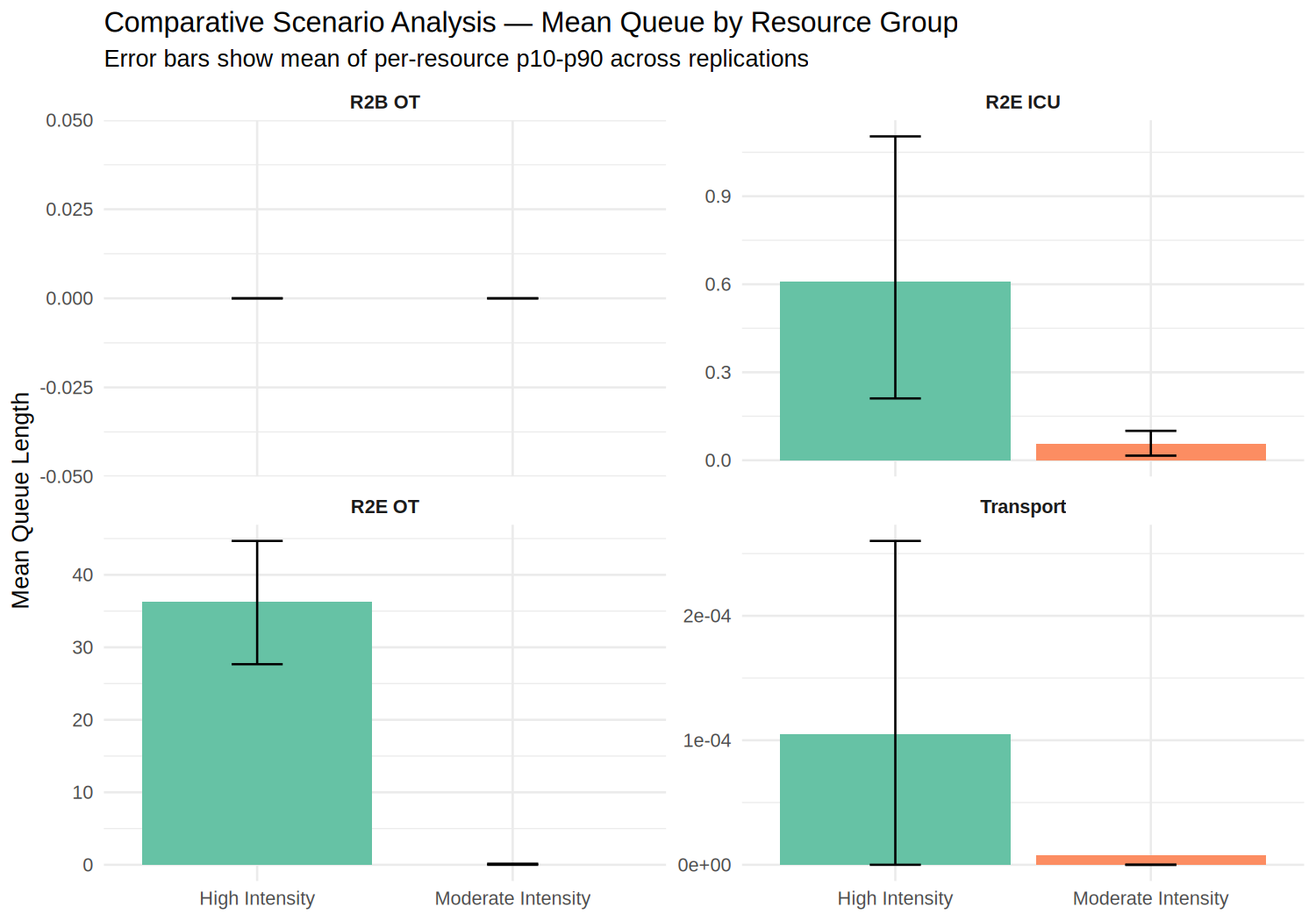
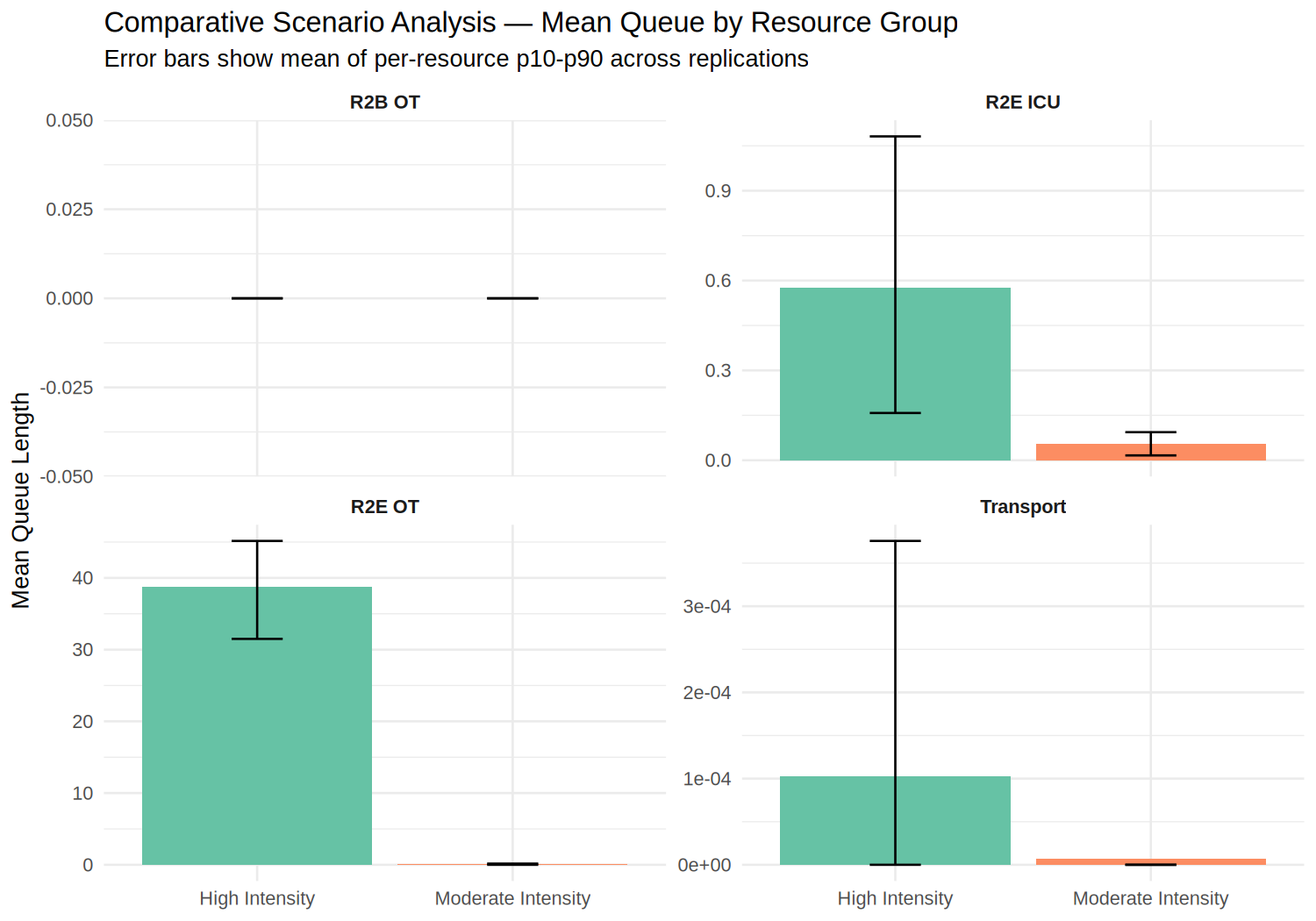
docs(issue-189): regenerate published intervals under independent replications
Every interval in these documents was computed over antithetically paired
replications while dividing by the replication count. The point estimates were
unbiased and stand; the widths assumed an independence the design did not
supply. All of them are re-measured here against independent replications,
which also means new seed draws, so the point estimates move a little by
sampling variation as well.

Pooled over 150 replications at three control seeds:
- base treated-cohort DOW 0.38% (95% CI [0.31%, 0.45%]), was 0.416%
- moderate_intensity treated-cohort DOW 0.29% (95% CI [0.23%, 0.35%])
- base mean DOW/run 0.85 (95% CI [0.69, 1.01]), was 0.95

Both configurations now sit below the 0.46% Ajax Bay bound rather than the base
spanning it. The bound is one-sided, so sitting below is agreement, and both
ceilings are left unchanged.

Replication count, which the issue asks be established: the per-replication
standard deviation of the treated-cohort rate is 0.0044, so a 95% half-width of
0.15 pp needs 33 replications, 0.10 pp needs 73 and 0.05 pp needs 292. At 150
replications the half-width is about 0.07 pp, which supports two decimal places
and no more, so the third decimal place these documents used is gone.

The conflicting moderate_intensity died-of-wounds figures are reconciled:
docs/Multi_Run_Analysis.md now points at the README's pooled 150-replication
figure as the one to quote, and reports its own single measurement as one draw
around it.
[…]

diff --git a/docs/Multi_Run_Analysis.md b/docs/Multi_Run_Analysis.md
@@ -42,7 +42,7 @@ Two scenarios are compared — `moderate_intensity` (Falklands 1982 exemplar) an
 Rscript scripts/run_scenarios.R --scenarios moderate_intensity,high_intensity --iterations 50 --days 30 --seed 42
 ```
 
-`moderate_intensity` total casualties (385.7, 95% CI [385.3, 386.1]) match the documented seed-42 single-run baseline (386, `CLAUDE.md` Key Parameters) within 0.1%, confirming that the comparative runner reproduces the single-run baseline under the Falklands profile it is scenario-explicit about, consistent with the scenario mechanism's no-op guarantee for `default`.
+`moderate_intensity` total casualties (385.7, 95% CI [385.3, 386.2]) match the documented seed-42 single-run baseline (386, `CLAUDE.md` Key Parameters) within 0.1%, confirming that the comparative runner reproduces the single-run baseline under the Falklands profile it is scenario-explicit about, consistent with the scenario mechanism's no-op guarantee for `default`.
 
 ---
 
@@ -54,35 +54,35 @@ Rscript scripts/run_scenarios.R --scenarios moderate_intensity,high_intensity --
 
 | Metric | `moderate_intensity` (Falklands) | `high_intensity` (Okinawa) | Ratio |
 |---|---|---|---|
-| Total casualties/run | 385.6 (p10–p90: 384.0–387.0) | 968.4 (p10–p90: 965.0–972.1) | 2.51× |
-| WIA/run | 149.0 (148.0–150.0) | 656.0 (653.0–659.0) | 4.40× |
-| DOW/run | 0.66 (0–2.0) | 6.12 (2.0–10.0) | 9.27× |
-| DOW/WIA rate | 0.444% (95% CI [0.286%, 0.601%]) | 0.933% (95% CI [0.811%, 1.055%]) | 2.10× |
+| Total casualties/run | 385.7 (p10–p90: 384.0–388.0) | 969.4 (p10–p90: 967.0–972.0) | 2.51× |
+| WIA/run | 148.8 (148.0–150.0) | 656.7 (655.0–659.0) | 4.41× |
+| DOW/run | 0.72 (0–2.0) | 5.04 (3.0–7.0) | 7.00× |
+| DOW/WIA rate | 0.48% (95% CI [0.30%, 0.67%]) | 0.77% (95% CI [0.68%, 0.85%]) | 1.59× |
 
-The two died-of-wounds rows carry a wider uncertainty than the intervals shown. Both are single 50-replication measurements of a response averaging well under one death per replication at Falklands load, and the interval is computed as though the replications were independent when they are antithetically paired, which narrows it (see the README's [Parameter Calibration](../README.md#parameter-calibration) and Further Development entry L22). Repeating the `moderate_intensity` measurement at other control seeds returns DOW/WIA rates from 0.309% to 0.471%, so the ratio between the two profiles should be read as approximate. The `moderate_intensity` treated-cohort mortality rate pooled over 150 replications, which is the quantity the historical comparator constrains, is reported in the README's [Scenario Profiles](../README.md#scenario-profiles). The queue rows below are not affected in the same way: they are time-weighted occupancy measures with far more events behind each replication.
+The two died-of-wounds rows are each a single 50-replication measurement of a response averaging well under one death per replication at Falklands load, and 50 replications resolve a died-of-wounds rate only to roughly ±0.12 percentage points (see the README's [Further Development](../README.md#further-development) entry L22 for where that figure comes from). The intervals shown are correctly specified, the replications behind them being independent of one another (see the README's [Multi-run Replication Framework](../README.md#multi-run-replication-framework)); they are simply wide, and the `moderate_intensity` figure moves between control seeds by about as much as the interval spans. The figure to quote for that profile is therefore the 150-replication pooled one in the README's [Scenario Profiles](../README.md#scenario-profiles), 0.43% (95% CI [0.34%, 0.51%]), which this table's single measurement is one draw around, and the ratio between the two profiles should be read as approximate for the same reason. The queue rows below are better resolved at the same replication count: they are time-weighted occupancy measures with far more events behind each replication.
 
 ### Resource Queue Comparison (mean of per-resource mean queue, by group)
 
 | Resource group | `moderate_intensity` mean queue | `high_intensity` mean queue | Ratio |
 |---|---|---|---|
 | R2B OT | 0.000 | 0.000 | — |
-| R2B Hold | 0.284 | 3.302 | 11.64× |
-| R2E OT | 0.048 | 36.31 | 758.8× |
-| R2E ICU | 0.057 | 0.609 | 10.59× |
-| R2E Hold | 0.099 | 2.476 | 24.96× |
-| Transport (PMV Ambulance / HX240M) | 0.0000065 | 0.000105 | 16.0× (negligible in both) |
+| R2B Hold | 0.320 | 3.105 | 9.70× |
+| R2E OT | 0.052 | 38.81 | 749.4× |
+| R2E ICU | 0.055 | 0.577 | 10.53× |
+| R2E Hold | 0.172 | 2.429 | 14.15× |
+| Transport (PMV Ambulance / HX240M) | 0.0000071 | 0.000103 | 14.5× (negligible in both) |
 
 ![Comparative Scenario Analysis](../images/scenario_comparison.png)
 
 ### Interpretation
 
-The comparison exposes a structural fragility that the single-run baseline could not surface on its own, and it locates that fragility in the operating theatres. Mean R2E OT queue rises from 0.048 casualties at Falklands-equivalent load to 36.3 under `high_intensity`, a factor of roughly 760, which is by a wide margin the largest movement anywhere in the model. Both ends of that ratio fall once roughly half of operated casualties take a single-stage procedure rather than two staged ones, but the Falklands-load figure falls much the further, which is why the ratio widens rather than narrowing. The mechanism is the surgical roster: a casualty seizes a theatre before it seizes one of the three surgical sections that staff them, so a room reads as queued while its occupant waits for staff, and at Okinawa-intensity arrival rates that wait dominates. R2E ICU rises from 0.057 to 0.61, a factor of 11, and is now the flattest of the three R2E groups under surge: with only the damage control cohort taking a stabilisation episode, intensive care carries one episode for half the surgical population and two for the other half rather than two for everyone. R2E holding beds rise from 0.099 to 2.48, a factor of 25, and absorb what intensive care does not, since the holding bed is where a casualty goes when no intensive care bed is free and where those awaiting strategic evacuation stage.
+The comparison exposes a structural fragility that the single-run baseline could not surface on its own, and it locates that fragility in the operating theatres. Mean R2E OT queue rises from 0.052 casualties at Falklands-equivalent load to 38.8 under `high_intensity`, a factor of roughly 750, which is by a wide margin the largest movement anywhere in the model. Both ends of that ratio fall once roughly half of operated casualties take a single-stage procedure rather than two staged ones, but the Falklands-load figure falls much the further, which is why the ratio widens rather than narrowing. The mechanism is the surgical roster: a casualty seizes a theatre before it seizes one of the three surgical sections that staff them, so a room reads as queued while its occupant waits for staff, and at Okinawa-intensity arrival rates that wait dominates. R2E ICU rises from 0.055 to 0.58, a factor of 11, and is now the flattest of the three R2E groups under surge: with only the damage control cohort taking a stabilisation episode, intensive care carries one episode for half the surgical population and two for the other half rather than two for everyone. R2E holding beds rise from 0.17 to 2.43, a factor of 14, and absorb what intensive care does not, since the holding bed is where a casualty goes when no intensive care bed is free and where those awaiting strategic evacuation stage.
 
-R2B OT queue remains at 0 in both scenarios — not because R2B absorbs any of the surge, but because the existing OT-bypass routing diverts casualties requiring surgery to R2E whenever R2B is off-shift, busy, or queued rather than allowing them to wait; under `high_intensity`, this shunts the entire surge onto an R2E that has limited further capacity to absorb it. R2B Hold bed queue — already identified as a Falklands-rate bottleneck (see the single-run analysis's [R2B Hold Bed Saturation](Single_Run_Analysis.md#r2b-hold-bed-saturation-stream-decomposition-and-intervention-analysis) finding) — increases roughly 11.6-fold (0.28 to 3.30), driven by the proportional increase in non-surgical WIA volume rather than any change to DNBI generation, since DNBI generation rate is not one of the parameters a scenario profile overrides.
+R2B OT queue remains at 0 in both scenarios — not because R2B absorbs any of the surge, but because the existing OT-bypass routing diverts casualties requiring surgery to R2E whenever R2B is off-shift, busy, or queued rather than allowing them to wait; under `high_intensity`, this shunts the entire surge onto an R2E that has limited further capacity to absorb it. R2B Hold bed queue — already identified as a Falklands-rate bottleneck (see the single-run analysis's [R2B Hold Bed Saturation](Single_Run_Analysis.md#r2b-hold-bed-saturation-stream-decomposition-and-intervention-analysis) finding) — increases roughly 9.7-fold (0.32 to 3.11), driven by the proportional increase in non-surgical WIA volume rather than any change to DNBI generation, since DNBI generation rate is not one of the parameters a scenario profile overrides.
 
-Transport remains the one echelon with genuine headroom: mean queue stays a small fraction of a casualty even at 2.5× total casualty volume, consistent with the single-run analysis's [Transport Fleet Capacity Margin](Single_Run_Analysis.md#transport-fleet-capacity-margin) finding that the PMV Ambulance/HX240M pool is not the binding constraint at the Falklands-derived rate — though the roughly 16-fold rise in mean queue (still negligible in absolute terms, at around one ten-thousandth of a casualty) indicates this margin is not unlimited, and a Vietnam/Okinawa-intensity re-run of the dedicated fleet-size sweep would be needed to establish exactly where it is exhausted.
+Transport remains the one echelon with genuine headroom: mean queue stays a small fraction of a casualty even at 2.5× total casualty volume, consistent with the single-run analysis's [Transport Fleet Capacity Margin](Single_Run_Analysis.md#transport-fleet-capacity-margin) finding that the PMV Ambulance/HX240M pool is not the binding constraint at the Falklands-derived rate — though the roughly 14-fold rise in mean queue (still negligible in absolute terms, at around one ten-thousandth of a casualty) indicates this margin is not unlimited, and a Vietnam/Okinawa-intensity re-run of the dedicated fleet-size sweep would be needed to establish exactly where it is exhausted.
 
-DOW/WIA rate rises from 0.44% to 0.93%, a factor of roughly 2, and the confidence intervals do not overlap. The direction and approximate magnitude of that rise are the defensible findings rather than the factor to two decimal places, for the reasons given under the table: the Falklands-load figure moves between 0.309% and 0.471% across control seeds, which is enough to shift the ratio without disturbing the conclusion, since the surge figure rests on roughly nine times as many deaths and is correspondingly better resolved. The mechanism is that at Okinawa intensity the deaths are driven by treatment queues deep enough that removing an intensive care episode and a theatre episode from half the operated population, which is what the surgical pathway split does, does not relieve them.
+DOW/WIA rate rises from 0.48% to 0.77%, a factor of roughly 1.6, and the confidence intervals do not overlap. The direction is the defensible finding rather than the factor itself, for the reasons given under the table: the Falklands-load figure moves across control seeds by about as much as its own interval spans, which is enough to shift the ratio between measurements without disturbing the conclusion, since the surge figure rests on roughly seven times as many deaths and is correspondingly better resolved. The mechanism is that at Okinawa intensity the deaths are driven by treatment queues deep enough that removing an intensive care episode and a theatre episode from half the operated population, which is what the surgical pathway split does, does not relieve them.
 
 ---
 
@@ -90,9 +90,9 @@ DOW/WIA rate rises from 0.44% to 0.93%, a factor of roughly 2, and the confidenc
 
 <small>[Return to Top](#contents)</small>
 
-The system's resilience to surge is directly quantified rather than inferred. This multi-run comparison confirms that neither R2B nor R2E can absorb Okinawa-intensity casualty rates without fundamental redesign: R2E OT mean queue rises approximately 760-fold and R2E Hold mean queue approximately 25-fold relative to the Falklands-modified baseline, R2B Hold queue rises approximately 12-fold, and DOW/WIA rate roughly doubles — all while R2B OT queue remains at zero only because the existing bypass routing shunts all surgical overflow onto an already-saturated R2E rather than R2B absorbing any of the surge itself. Effective LSCO medical support at Okinawa intensity would require scalable holding capacity at forward echelons, a deeper surgical roster at R2E, and dynamic load-balancing between R2B and R2E — capabilities the current static establishment does not provide.
+The system's resilience to surge is directly quantified rather than inferred. This multi-run comparison confirms that neither R2B nor R2E can absorb Okinawa-intensity casualty rates without fundamental redesign: R2E OT mean queue rises approximately 750-fold and R2E Hold mean queue approximately 14-fold relative to the Falklands-modified baseline, R2B Hold queue rises approximately 10-fold, and DOW/WIA rate rises by roughly half again — all while R2B OT queue remains at zero only because the existing bypass routing shunts all surgical overflow onto an already-saturated R2E rather than R2B absorbing any of the surge itself. Effective LSCO medical support at Okinawa intensity would require scalable holding capacity at forward echelons, a deeper surgical roster at R2E, and dynamic load-balancing between R2B and R2E — capabilities the current static establishment does not provide.
 
-These figures were regenerated at 50 replications per scenario after the surgical population was split between the staged damage control pathway and a single-stage definitive procedure, and they supersede the comparison made when every operated casualty took the staged pathway. That change removes one theatre episode and one intensive care episode from roughly half of operated casualties, which is why the R2E OT and R2E ICU rows fall at both loads; the R2E Hold row rises at surge because a holding bed is where a casualty recovers when no intensive care bed is free, so relieving theatre pressure moves the residual congestion onto beds. The run was made in an unpinned R 4.3.3 sandbox rather than the project's pinned Dev Container, under the same caveat as the other figures refreshed alongside it (see `CLAUDE.md`'s Key Parameters provenance caveats). `images/scenario_comparison.png` was regenerated alongside the tables, the plotting stage having been run under an explicit UTF-8 locale; it fails outside one, a defect tracked separately. A comparable Vietnam-intensity comparison remains unavailable pending a genuine FORECAS-sourced Vietnam combat-troop WIA/KIA table.
+These figures were regenerated at 50 replications per scenario after replications were made independent of one another, and they supersede the comparison made when replications were antithetically paired. No model behaviour changed with that correction, so the movement between the two sets of figures is sampling variation between two sets of seed draws rather than a change in what the model does; the ratios most affected are the ones resting on the fewest events per replication, the died-of-wounds rows and the holding-bed queues, which is the same reason those rows carry the caveats given above. What the correction does change is that these intervals are now correctly specified, where previously they divided by a replication count that the pairing did not entitle them to. The run was made in an unpinned R 4.3.3 sandbox rather than the project's pinned Dev Container, under the same caveat as the other figures refreshed alongside it (see `CLAUDE.md`'s Key Parameters provenance caveats). `images/scenario_comparison.png` was regenerated alongside the tables, the plotting stage having been run under an explicit UTF-8 locale; it fails outside one, a defect tracked separately. A comparable Vietnam-intensity comparison remains unavailable pending a genuine FORECAS-sourced Vietnam combat-troop WIA/KIA table.
 
 ---
 

diff --git a/README.md b/README.md
@@ -737,7 +737,7 @@ The plotted curves show DOW probability $F(t)$ for the P1 (urgent, red) and P2 (
 
 The logistic shape parameters ($k$, $t_{mid}$) are anchored to the haemorrhagic shock critical window. The majority of potentially survivable haemorrhagic deaths occur within 60–180 minutes post-injury [[29]](#References). The inflection point $t_{mid} = 120$ minutes centres the logistic rise within this window; the P2 inflection is set to 180 minutes, reflecting the lower urgency of the Priority 2 cohort.
 
-The ceiling $p_{max}$ and floor $p_{base}$ values, and the shape parameters, are calibrated to the Falklands War 1982 (Operation CORPORATE) historical DOW outcome rather than fitted to a per-minute individual-level survival curve, which no published dataset provides. The historical target is a **treated-cohort** mortality rate, and the population it covers is stated here explicitly because the model must be compared against the matching cohort. An account of the Ajax Bay Advanced Surgical Centre records that over 650 combat casualties from both sides passed through the facility, of whom three died of wounds [[14]](#References), giving a rate of approximately 0.46% among casualties who reached forward surgical care alive. The model's corresponding cohort is the set of casualties that reach an R2B or R2E facility. At the shipped ceilings (`p1_p_max` = 0.023, `p2_p_max` = 0.019) that cohort's mortality is 0.416%, with a 95% confidence interval of [0.346%, 0.485%] that spans the 0.46% target. That figure pools three independent 50-replication measurements (150 replications in total), which is the precision this quantity requires: died of wounds averages around one death per replication, and three single 50-replication measurements of this same configuration returned 0.348%, 0.400% and 0.499%, a spread wider than the confidence interval any one of them reported (see [Further Development](#further-development), L22). The shape parameters are anchored to the aggregate mortality time-window analysis in [[29]](#References) and [[30]](#References); the logistic form itself is a standard S-shaped approximation for time-dependent failure processes [[41]](#References).
+The ceiling $p_{max}$ and floor $p_{base}$ values, and the shape parameters, are calibrated to the Falklands War 1982 (Operation CORPORATE) historical DOW outcome rather than fitted to a per-minute individual-level survival curve, which no published dataset provides. The historical target is a **treated-cohort** mortality rate, and the population it covers is stated here explicitly because the model must be compared against the matching cohort. An account of the Ajax Bay Advanced Surgical Centre records that over 650 combat casualties from both sides passed through the facility, of whom three died of wounds [[14]](#References), giving a rate of approximately 0.46% among casualties who reached forward surgical care alive. The model's corresponding cohort is the set of casualties that reach an R2B or R2E facility. At the shipped ceilings (`p1_p_max` = 0.023, `p2_p_max` = 0.019) that cohort's mortality is 0.38%, with a 95% confidence interval of [0.31%, 0.45%] that sits below the 0.46% target, which is agreement rather than disagreement because the target is an upper bound (see [Further Development](#further-development), L22). That figure pools three independent 50-replication measurements (150 replications in total), which is the precision this quantity requires: died of wounds averages under one death per replication, and the three measurements behind it returned 0.387%, 0.327% and 0.418% individually. The shape parameters are anchored to the aggregate mortality time-window analysis in [[29]](#References) and [[30]](#References); the logistic form itself is a standard S-shaped approximation for time-dependent failure processes [[41]](#References).
 
 Two properties of this target govern how it may legitimately be used. First, the denominator counts casualties who survived long enough to reach a surgical facility, so the rate is not a whole-of-WIA DOW rate and must not be compared against one: applied to the entire wounded population it would understate mortality, because casualties who died before reaching care are excluded from the historical denominator by construction. Second, the denominator is reported as "over 650" rather than as an exact count, so 0.46% is an upper bound on the true treated-cohort rate rather than a point estimate, and the confidence interval above is the meaningful test rather than the agreement of the central value.
 
@@ -872,12 +872,12 @@ With these weaker factors, `dow.params` was re-calibrated by the same iterative 
 
 | Metric                  | `moderate_intensity` (150-rep)     | Historical comparator                                              |
 | ----------------------- | ---------------------------------- | ------------------------------------------------------------------ |
-| Treated-cohort DOW rate | 0.274% (95% CI [0.216%, 0.331%])   | ≤0.46% (3 deaths among over 650 reaching forward surgery [[14]](#References)) |
-| Mean DOW/run            | 0.61 (95% CI [0.48, 0.73])         | No directly comparable published figure                            |
-| DOW/WIA rate            | 0.408% (95% CI [0.323%, 0.492%])   | Not historically constrained (see Further Development, L22)        |
+| Treated-cohort DOW rate | 0.29% (95% CI [0.23%, 0.35%])      | ≤0.46% (3 deaths among over 650 reaching forward surgery [[14]](#References)) |
+| Mean DOW/run            | 0.63 (95% CI [0.51, 0.76])         | No directly comparable published figure                            |
+| DOW/WIA rate            | 0.43% (95% CI [0.34%, 0.51%])      | Not historically constrained (see Further Development, L22)        |
 | KIA:WIA ratio           | 0.451                              | 0.328 (255 killed : 777 injured [[53]](#References), [[54]](#References)) |
 
-The treated-cohort rate, measured over the casualties that reach an R2B or R2E facility, sits below the historical comparator rather than spanning it. Because that comparator is an upper bound rather than a point estimate, sitting beneath it is consistent with the historical record, and the ceilings are left as they are: raising them to bring the interval up onto the bound would add modelled deaths that no source evidences. The base configuration reaches 0.416% (95% CI [0.346%, 0.485%]) by the different mechanistic route described in [Parameter Calibration](#parameter-calibration), spanning the bound. Both figures are pooled over 150 replications rather than measured once, for the reason given there; at that precision the two intervals do not overlap, so the profiles genuinely differ in mortality rather than differing only by which measurement was taken. See [Further Development](#further-development), L22. The KIA:WIA ratio does not match, but this is a characteristic of the base casualty generation rates that both profiles share rather than something this profile introduced, since the profile overrides only the DOW ceiling and treatment efficacy factors (see Further Development).
+The treated-cohort rate, measured over the casualties that reach an R2B or R2E facility, sits below the historical comparator rather than spanning it. Because that comparator is an upper bound rather than a point estimate, sitting beneath it is consistent with the historical record, and the ceilings are left as they are: raising them to bring the interval up onto the bound would add modelled deaths that no source evidences. The base configuration reaches 0.38% (95% CI [0.31%, 0.45%]) by the different mechanistic route described in [Parameter Calibration](#parameter-calibration), also below the bound but less far. Both figures are pooled over 150 replications rather than measured once, for the reason given there. At that precision the two intervals overlap slightly, so the profiles differ in mortality by less than the earlier measurements suggested, and the separation between them should be read as indicative rather than established. See [Further Development](#further-development), L22. The KIA:WIA ratio does not match, but this is a characteristic of the base casualty generation rates that both profiles share rather than something this profile introduced, since the profile overrides only the DOW ceiling and treatment efficacy factors (see Further Development).
 
 ### High Intensity profile (Okinawa exemplar)
 
@@ -2123,9 +2123,11 @@ This section records what the model does not represent, how much each gap matter
 
 **L22 — The died-of-wounds calibration target is a bounded treated-cohort rate.** The historical anchor for the mortality ceilings is three deaths among the "over 650" casualties who reached the Ajax Bay Advanced Surgical Centre, a cohort drawn from both sides of the conflict and reported with an inexact denominator. Three consequences follow. The rate of approximately 0.46% is an upper bound rather than a point estimate, so the validation test this project has applied is whether the model's confidence interval spans it, rather than whether the central values agree. The cohort mixes British and Argentine casualties, whose prior treatment and evacuation timelines differ, while the model represents a single force. And because the target constrains only casualties who survived to reach surgical care, the model's whole-of-wounded mortality rate is unconstrained by any historical figure, which is the quantity a planner is most likely to read off the output. Closing this would need a source reporting a campaign died-of-wounds count against an exact wounded-in-action denominator for one force; no open-access source doing so was identified.
 
-Against that bound the base configuration measures 0.416%, with a 95% confidence interval of 0.346% to 0.485% that spans it, and the ceilings are deliberately left as they are. Reaching that conclusion required abandoning the single 50-replication measurement this project had used as its calibration test. Died of wounds averages about one death per replication, and three independent 50-replication measurements of the same shipped configuration returned 0.348%, 0.400% and 0.499%: a spread wider than the confidence interval any one of them reported, which is why the figure above pools all three over 150 replications. An earlier single measurement of 0.617% had been read as an overshoot requiring the ceilings to be re-fitted; it is one draw from this spread and lies outside the pooled interval. The spread is understated in turn because replications are antithetically paired and every interval in this project divides by the replication count as though they were independent, which is recorded as a defect in its own right rather than absorbed here.
+Against that bound the base configuration measures 0.38%, with a 95% confidence interval of 0.31% to 0.45% that sits below it, and the ceilings are deliberately left as they are. Reaching that conclusion required abandoning the single 50-replication measurement this project had used as its calibration test. Died of wounds averages under one death per replication, and independent 50-replication measurements of the same shipped configuration have returned rates from 0.327% to 0.499% across control seeds: a spread wider than the confidence interval any one of them reported, which is why the figure above pools three measurements over 150 replications. A single measurement of 0.617% was once read as an overshoot requiring the ceilings to be re-fitted; it is one draw from this spread and lies well outside every pooled interval since.
 
-Two further consequences follow for how the bound is used. A test asking whether the model's interval spans the target is stricter than an upper bound supports, since it fails a model for sitting comfortably below a ceiling; the `moderate_intensity` profile does sit below, at 0.274% (95% confidence interval 0.216% to 0.331%), and is left there rather than having its ceilings raised, because lifting modelled mortality to meet a bound would add deaths the historical record does not evidence. And the ceilings remain entangled with the treatment efficacy factors, so agreement with the bound confirms the pair jointly and not either alone.
+How many replications a mortality figure needs follows from the same measurement. The per-replication standard deviation of the treated-cohort rate is 0.0044, so a 95% half-width of 0.15 percentage points needs 33 replications, 0.10 points needs 73, and 0.05 points needs 292. At the 150 replications this project pools, the half-width is about 0.07 points, which resolves the rate to two decimal places and no further; a third decimal place would need of the order of ten thousand replications and is not reported anywhere. Figures at 50 replications, which is what the resource-queue and utilisation measures use, carry a half-width around 0.12 points on this response and should be read as approximate. That guidance applies to mortality specifically. The queue and occupancy measures are time-weighted over far more events per replication and are correspondingly better resolved at the same replication count.
+
+Two further consequences follow for how the bound is used. A test asking whether the model's interval spans the target is stricter than an upper bound supports, since it fails a model for sitting comfortably below a ceiling. Both shipped configurations now sit below rather than spanning, the base at 0.38% and `moderate_intensity` further below at 0.29% (95% confidence interval 0.23% to 0.35%), and both are left there rather than having their ceilings raised, because lifting modelled mortality to meet a bound would add deaths the historical record does not evidence. And the ceilings remain entangled with the treatment efficacy factors, so agreement with the bound confirms the pair jointly and not either alone.
 
 **L23 — Recovery-to-duty severity factors are uncalibrated.** The theatre evacuation policy compares each casualty's drawn recovery-to-duty duration against a configurable threshold, which makes disposition a function of severity, but the four severity factors that scale the base convalescence distribution are informed estimates. No open-access source tabulates time to fitness for duty by triage priority for a battlefield trauma population, so the factors were anchored to the severity gradient in the Role 4 length-of-stay values and then set so that the realised in-theatre share falls inside the historical range. That range spans 7.6% to 42.1%, which is wide enough to admit many factor sets, so agreement with it is a weak test: the mechanism is defensible and the ordering between categories is not in doubt, but the specific values are not calibrated. Because the same factors set both the retention share and the holding-bed occupancy of everyone retained, an error moves R2E bed demand and strategic airlift demand together in opposite directions, and the policy sweep reported in the single-run analysis will be correspondingly too steep or too shallow. Closing the gap needs a source giving recovery-to-duty durations by severity, or a calibration target sharper than the in-theatre share.
 

diff --git a/CLAUDE.md b/CLAUDE.md
@@ -479,6 +479,14 @@ These are the validated baseline values from the current single-run analysis. Re
 
 > **Provenance note (Issue #178 died-of-wounds re-measurement):** Issue #178 changes no model code, no `env_data.json` parameter and no RNG stream, so **no seed-42 single-run row in the table below changes** and no tracked artifact in `images/`, `logs/` or `data/` was regenerated. It was raised to correct a died-of-wounds overshoot against the Ajax Bay treated-cohort target, and closes having established that there is no overshoot to correct. The reported 0.617% (95% CI [0.503%, 0.732%]) could not be reproduced: three independent 50-replication measurements of the same shipped base configuration returned 0.348%, 0.400% and 0.499%, pooling to 0.416% (95% CI [0.346%, 0.485%]) over 150 replications, an interval that spans the ~0.46% target. `p1_p_max` and `p2_p_max` are therefore unchanged in both shipped configurations, and the Morris bounds that scale with them are unchanged with them. The measurements were made in an **unpinned R 4.3.3 sandbox** (no Docker access in this session to build `rocker/rstudio:4.4.2`), under the same caveat as the Issue #18, #23, #161, #154, #156, #160, #159 and #173 refreshes. As the validation step this project applies as standard, the seed-42 single run was reproduced first and matched every documented post-Issue-173 figure exactly (total casualties 386; 113 operated, 56 damage control; P1 86/50, P2 27/6; `surgery_deferred` 12; 139 dispositions at 32.4%; Role 4 75 boarded, 19 queued, peak 49.0, 28 sorties), and a 50-replication `moderate_intensity` measurement at seed 42 reproduced `docs/Multi_Run_Analysis.md`'s comparative figures exactly (0.66 DOW/run, DOW/WIA 0.444%, 95% CI [0.286%, 0.601%]), confirming the measurement path is the project's own. The single-measurement spread of 0.151 percentage points exceeds the half-width any one measurement reported, because replications are antithetically paired and every interval in the project divides by the replication count as though they were independent; the pair correlation on died-of-wounds count measures +0.38 against the negative correlation the design intends. That defect is tracked separately as Issue #189 and is not fixed here, so the intervals in the rows below other than the pooled multi-run row remain as previously computed.
 
+> **Provenance note (Issue #189 replication independence):** Issue #189 changes no trajectory, no `env_data.json` parameter and no random draw, so **no seed-42 single-run row in the table below changes**. The seed-42 run was reproduced first, as the validation step this project applies as standard, and matched every documented post-Issue-173 figure exactly (total casualties 386; 114/0/0 R2B routing; 55/8/63 OT bypass; 113 operated, 56 damage control; P1 86/50, P2 27/6; `surgery_deferred` 12; 139 dispositions at 32.4%; post-op stabilisation icu=45 / hold=34; Role 4 75 boarded, 19 queued, peak 49.0, 28 sorties). Removing the antithetic machinery consumes no random numbers, so that reproduction is bit-identical rather than merely close.
+
+> What does change is every multi-replication interval. `run_replications()` paired replications (2k-1, 2k) on a shared seed, negating only the arrival-generation uniforms, while every interval in the project divides by the replication count as though the replications were independent. The point estimates were unaffected, the mean of paired observations being unbiased; the widths were not. Replications are now independent, each drawing its own seed, so the same `qt(0.975, df = n - 1) * sd / sqrt(n)` arithmetic is correctly specified where before it was not. Every 50- and 150-replication row below was re-measured accordingly, and the seeds differing between the two designs means the point estimates move a little by sampling variation as well.
+
+> The +0.38 within-pair correlation on died-of-wounds count that Issue #189 reports does not replicate. Measured over 75 pairs of the shipped base configuration the correlation is -0.005 on that response, -0.015 on the treated-cohort rate, -0.040 on total casualties (the only response the negation actually reached, where a variance reduction of about 3% is indistinguishable from none) and +0.179 on R2E ICU mean queue. Individual 50-replication measurements of the same quantities span -0.25 to +0.65, which is what a 25-pair correlation estimate is worth, and +0.38 is one draw from that spread. The defect being fixed is the unit-of-analysis error, which is structural and holds whatever the realised correlation; the measurement is what settled the separate question of whether to extend the negation or withdraw it, since a scheme delivering no measurable benefit where it reaches is not worth extending. `scripts/check_replication_independence.R` is new and keeps the property measured.
+
+> The measurements were made in an **unpinned R 4.3.3 sandbox** (no Docker access in this session to build `rocker/rstudio:4.4.2`), under the same caveat as the Issue #18, #23, #161, #154, #156, #160, #159, #173 and #178 refreshes. No tracked artifact in `images/`, `logs/` or `data/` was regenerated, since nothing about the seed-42 run changed, apart from `images/scenario_comparison.png`, which is regenerated by the comparative scenario runner whose table was re-measured.
+
 | Metric | Baseline value |
 |---|---|
 | Total casualties (30 days) | 386 (post-Issue-173; was 385 post-Issue-159, 386 post-Issue-160, 387 post-Issue-161, 400 pre-Issue-18) |
@@ -492,7 +500,8 @@ These are the validated baseline values from the current single-run analysis. Re
 | DOW rate — P1 p_max (logistic) | 2.3% ceiling (Falklands 1982 calibration) |
 | DOW rate — P2 p_max (logistic) | 1.9% ceiling (Falklands 1982 calibration) |
 | DOW rate — P3 flat | 0.1% (structural placeholder; P3 never evacuated) |
-| Mean DOW/run (150 reps pooled, post-Issue-178) | 0.95; 95% CI [0.79, 1.10]. DOW/WIA rate 0.636% (95% CI [0.531%, 0.742%]); treated-cohort DOW rate (casualties reaching R2B or R2E) 0.416% (95% CI [0.346%, 0.485%]), the quantity the historical Ajax Bay target of ~0.46% applies to, and an interval that spans it. Pooled across three independent 50-replication measurements, at control seeds 42, 777 and 20260808, because one measurement does not resolve a response averaging about one death per replication: individually those three returned treated-cohort rates of 0.400%, 0.499% and 0.348%, a spread of 0.151 percentage points against a single-measurement half-width of roughly 0.11. The superseded row read 1.37 (95% CI [1.10, 1.63]) with a treated-cohort rate of 0.617% (95% CI [0.503%, 0.732%]); that was one draw from this spread, reported with an interval narrowed by the antithetic-pairing defect recorded in Issue #189, and it sits outside the 150-replication interval above. `p1_p_max` and `p2_p_max` are unchanged: Issue #178 established that there is no overshoot to correct. See README Further Development L22 |
+| Mean DOW/run (150 reps pooled, post-Issue-189) | 0.85; 95% CI [0.69, 1.01]. DOW/WIA rate 0.568% (95% CI [0.461%, 0.675%]); treated-cohort DOW rate (casualties reaching R2B or R2E) 0.38% (95% CI [0.31%, 0.45%]), the quantity the historical Ajax Bay target of ~0.46% applies to, and an interval that now sits below it rather than spanning it. Since the target is an upper bound the check is one-sided, so sitting below is agreement, and `p1_p_max`/`p2_p_max` are unchanged in both configurations. Pooled across three independent 50-replication measurements, at control seeds 42, 777 and 20260808, because one measurement does not resolve a response averaging under one death per replication: individually those three returned treated-cohort rates of 0.387%, 0.327% and 0.418%, a spread of 0.092 percentage points. The superseded row read 0.95 (95% CI [0.79, 1.10]) with a treated-cohort rate of 0.416% (95% CI [0.346%, 0.485%]); the movement is sampling variation between two sets of control-seed draws, not an effect of Issue #189, whose fix leaves every point estimate unbiased, and the two intervals overlap across most of their length. What Issue #189 changes is that this interval is now correctly specified, the replications behind it being independent rather than antithetically paired. Precision: the per-replication standard deviation is 0.0044, so 150 replications resolve the treated-cohort rate to about ±0.07 percentage points and no third decimal place is reported. See README Further Development L22 |
+| Replication count for mortality figures (post-Issue-189) | Per-replication sd of the treated-cohort DOW rate is 0.0044 (base, 150 reps). A 95% half-width of 0.15 pp needs 33 replications, 0.10 pp needs 73, 0.05 pp needs 292. The 50-replication figures elsewhere in this table carry roughly ±0.12 pp on this response; the queue and occupancy rows are time-weighted over far more events per replication and are better resolved at the same count |
 | DNBI sub-types (seed 42, post-Issue-173) | battle_fatigue=43, disease=101, nbi=26 (post-Issue-173; was battle_fatigue=52, disease=92, nbi=26 post-Issue-159) — RNG-stream-shifted despite DNBI sub-type assignment itself being unrelated code, per the single-global-RNG-stream mechanism (see provenance caveat above) |
 | bf_rtd (seed 42, post-Issue-173) | 40 (post-Issue-173; was 48 post-Issue-159) |
 | clinical_rtd (seed 42, post-Issue-173) | 109 (r1: 55, r2b: 42, r2e: 12) (post-Issue-173; was 86 — r1: 38, r2b: 39, r2e: 9 — post-Issue-159) |
